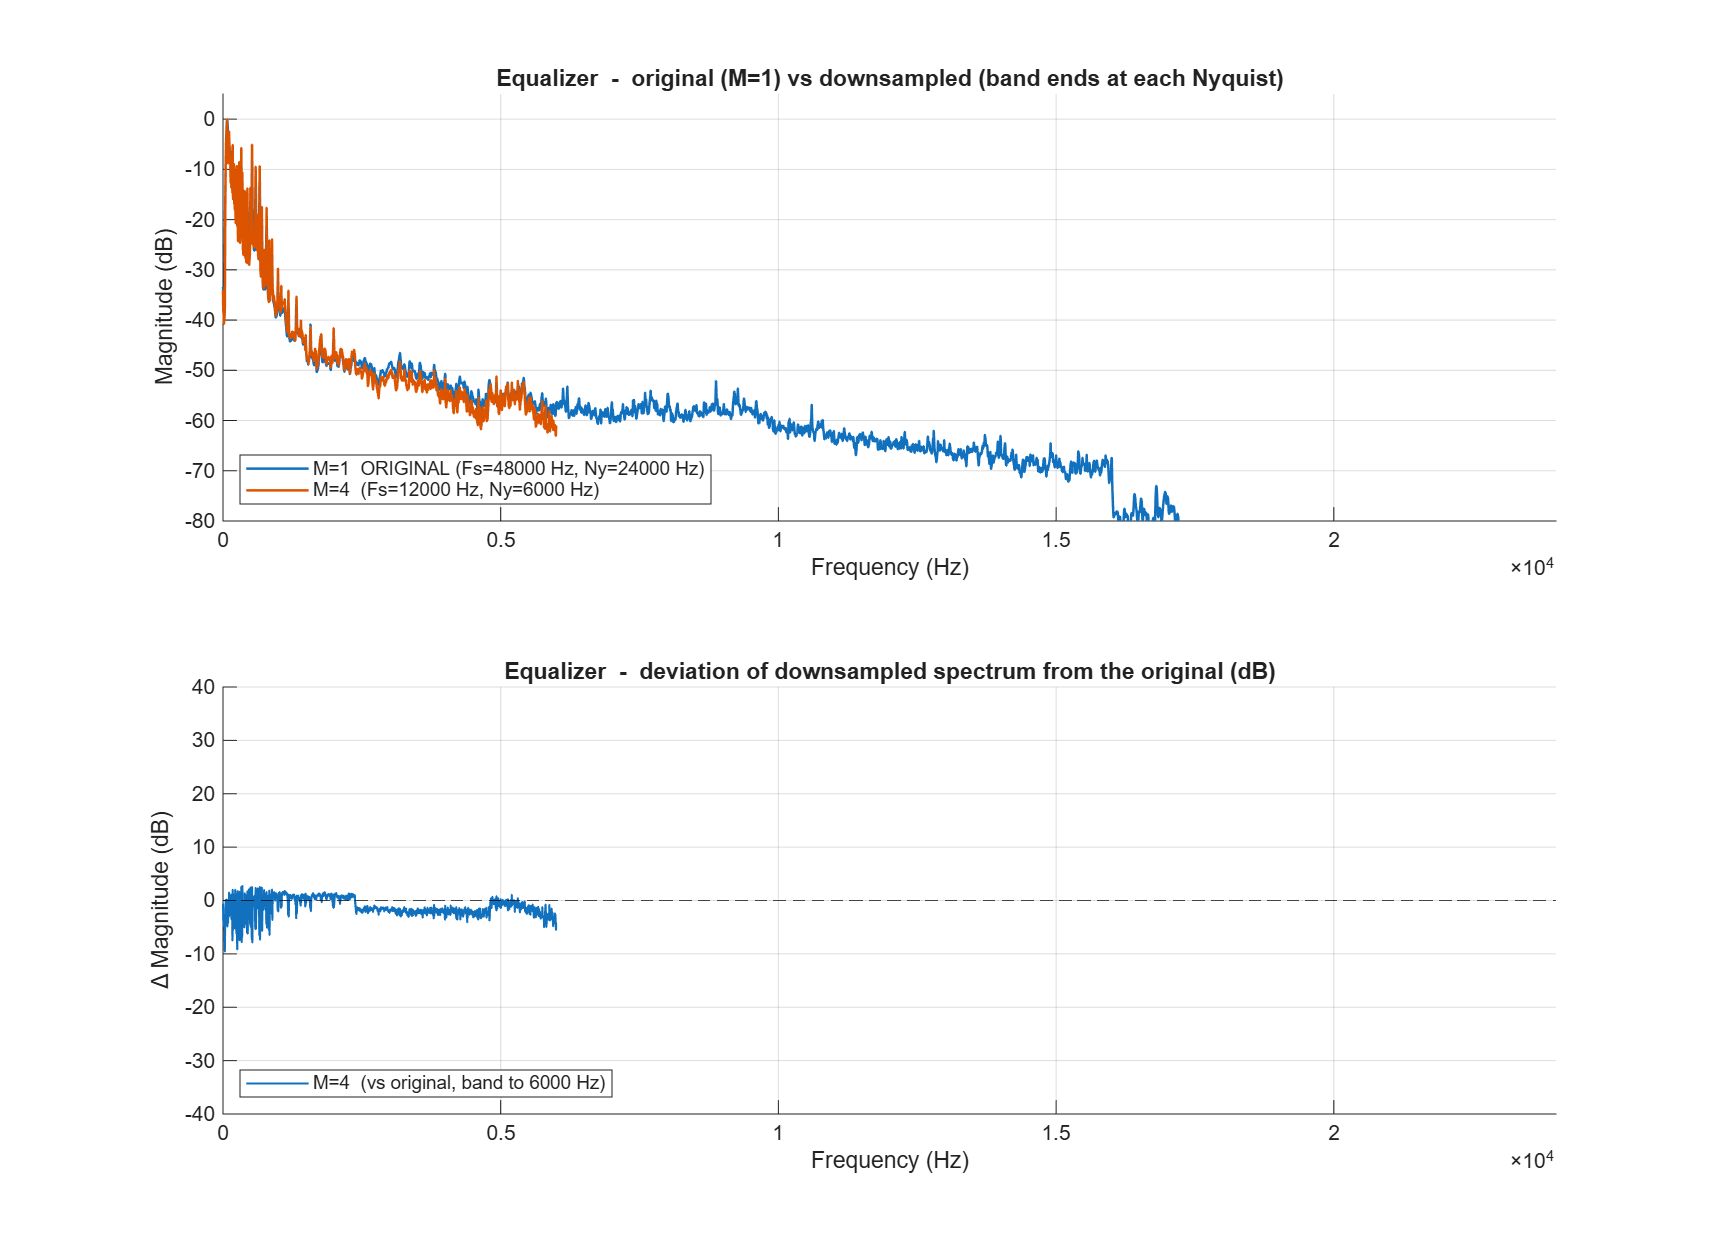
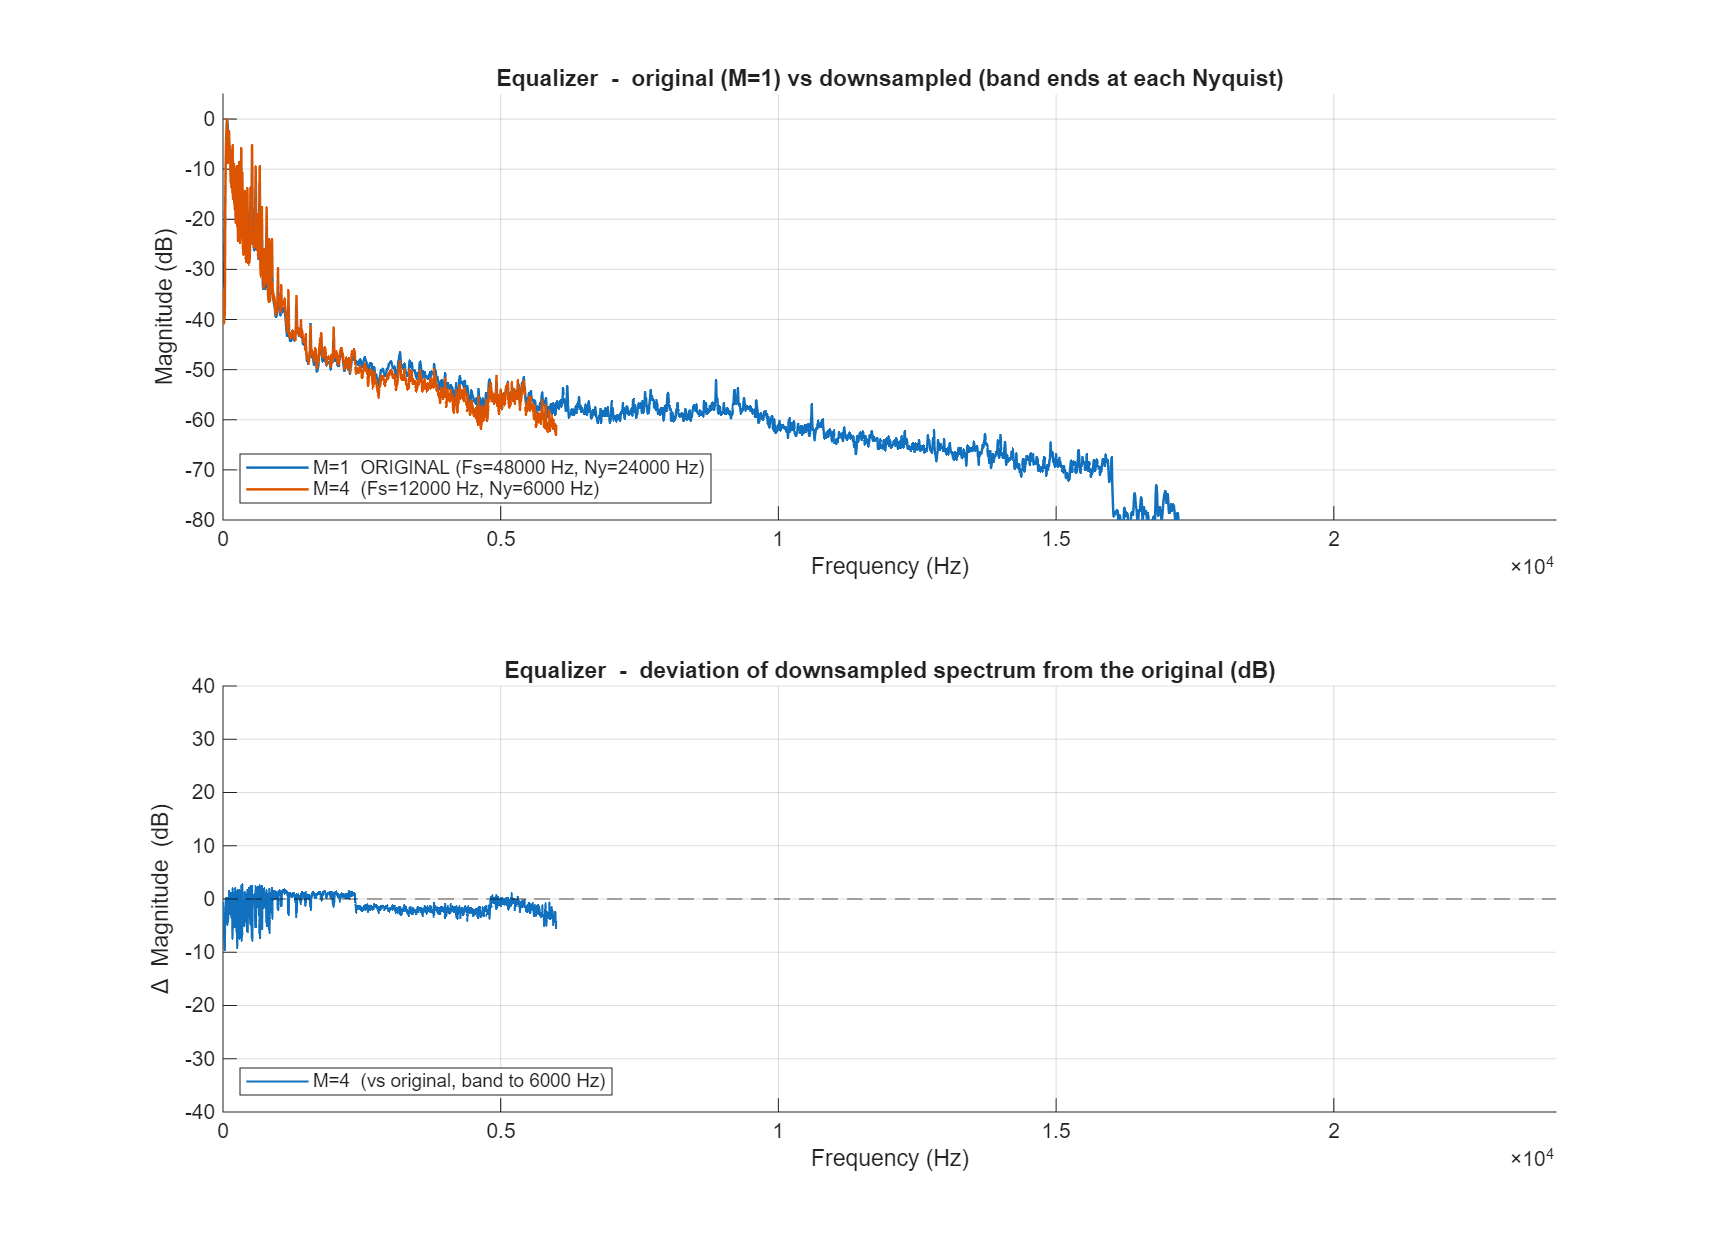
parameter (for hop size, dft size, frequency revolution) sensitivity is done

diff --git a/parameter_sentitivity.m b/parameter_sentitivity.m
@@ -1,73 +1,154 @@
-% FFT Audio Modifier
-% Parameters: observation window, DFT size, frequency resolution
-% Usage: place a .wav file in the same folder, set filename below
-
+% DFT Size Comparison — bar spectra at 10 Hz resolution
 clear; clc; close all;
 
-%% --- USER PARAMETERS ---
-filename        = 'inputfiles/music-sample.wav';   % your wav file
-window_start    = 0.0;           % start time (seconds)
-window_end      = 2.0;           % end time (seconds)  <- observation window
-N_dft           = 4096;          % DFT size (power of 2, e.g. 512 1024 2048 4096)
-freq_resolution = 200;           % keep frequencies BELOW this Hz (lowpass cutoff)
-                                 % acts as a simple filter to show effect of resolution
+%% --- PARAMETERS ---
+filename   = 'inputfiles/music-sample.wav';
+window_end = 2.0;    % seconds to analyse
+max_freq   = 4000;   % Hz to display on x-axis
+bin_width  = 10;     % Hz per bar
+hop        = 256;    % hop size (fixed across all DFT sizes)
 
-%% --- LOAD AUDIO ---
+%% --- LOAD & CROP ---
 [x, fs] = audioread(filename);
-x = mean(x, 2);                  % convert stereo to mono if needed
+x = mean(x, 2);
+x = x(1 : min(end, round(window_end * fs)));
 
-%% --- APPLY OBSERVATION WINDOW ---
-i_start = max(1, round(window_start * fs));
-i_end   = min(length(x), round(window_end * fs));
-x_win   = x(i_start:i_end);
-N_win   = length(x_win);
+%% --- STFT RECONSTRUCT FOR EACH DFT SIZE ---
+function x_out = stft_reconstruct(x, N, hop)
+    num_frames = floor((length(x) - N) / hop) + 1;
+    x_out      = zeros(length(x), 1);
+    win        = hann(N);
+    for f = 1:num_frames
+        i1    = (f-1)*hop + 1;
+        i2    = i1 + N - 1;
+        frame = x(i1:i2) .* win;
+        X     = fft(frame, N);
+        rec   = real(ifft(X, N)) .* win;   % overlap-add
+        x_out(i1:i2) = x_out(i1:i2) + rec;
+    end
+    x_out = x_out / max(abs(x_out) + 1e-10);
+end
 
-fprintf('Sample rate     : %d Hz\n', fs);
-fprintf('Window length   : %.3f s  (%d samples)\n', N_win/fs, N_win);
-fprintf('DFT size (N)    : %d\n', N_dft);
-fprintf('Freq resolution : %.2f Hz  (lowpass cutoff)\n', freq_resolution);
+%% --- COMPUTE AVERAGE MAGNITUDE PER 10 Hz BIN ---
+function mag_bins = compute_bins(x, fs, N, bin_width, max_freq)
+    X        = abs(fft(x, N));
+    X        = X(1:floor(N/2));
+    freqs    = (0:floor(N/2)-1) * fs/N;
+    edges    = 0 : bin_width : max_freq;
+    mag_bins = zeros(1, length(edges)-1);
+    for i = 1:length(edges)-1
+        idx = freqs >= edges(i) & freqs < edges(i+1);
+        if any(idx), mag_bins(i) = mean(X(idx)); end
+    end
+end
 
-%% --- INPUT SPECTRUM ---
-% zero-pad signal to N_dft if N_dft > N_win, else truncate
-x_pad = zeros(N_dft, 1);
-n_copy = min(N_win, N_dft);
-x_pad(1:n_copy) = x_win(1:n_copy);
+%% --- PROCESS & SAVE ---
+sizes = {4096, 2048, 1024, 512};
+recons = cell(1,4);
+for k = 1:4
+    N          = sizes{k};
+    recons{k}  = stft_reconstruct(x, N, hop);
+    audiowrite(sprintf('outputs/output_N%d.wav', N), recons{k}, fs);
+end
 
-X = fft(x_pad, N_dft);           % DFT
-freqs = (0:N_dft-1) * fs / N_dft; % frequency axis (Hz)
+%% --- COMPUTE BINS ---
+centers = (bin_width/2 : bin_width : max_freq - bin_width/2);
+shift   = 5;
+bins = cell(1,4);
+for k = 1:4
+    bins{k} = compute_bins(recons{k}, fs, sizes{k}, bin_width, max_freq);
+end
 
-%% --- PLOT INPUT SPECTRUM ---
-figure;
-subplot(2,1,1);
-half = 1:floor(N_dft/2);         % one-sided
-plot(freqs(half), 20*log10(abs(X(half)) + 1e-10), 'b');
-xlabel('Frequency (Hz)'); ylabel('Magnitude (dB)');
-title(sprintf('Input spectrum  |  window: %.1f–%.1f s  |  N=%d', ...
-    window_start, window_end, N_dft));
-grid on;
+%% --- PLOT ---
+labels = {'4096','2048','1024','512'};
+colors = [0.2 0.5 0.9;
+          0.9 0.4 0.2;
+          0.2 0.8 0.4;
+          0.8 0.2 0.6];
 
-%% --- APPLY FREQUENCY RESOLUTION FILTER ---
-% zero out all bins above freq_resolution (simple brickwall lowpass)
-cutoff_bin = round(freq_resolution / (fs / N_dft));
-cutoff_bin = max(1, min(cutoff_bin, floor(N_dft/2)));
+figure('Position', [100 100 1100 750]);
+for p = 1:3
+    subplot(3,1,p);
+    bar(centers,       bins{p},   0.8, 'FaceColor', colors(p,:),   'FaceAlpha', 0.5, 'EdgeColor', 'none'); hold on;
+    bar(centers+shift, bins{p+1}, 0.8, 'FaceColor', colors(p+1,:), 'FaceAlpha', 0.5, 'EdgeColor', 'none');
+    xlabel('Frequency (Hz)'); ylabel('Magnitude');
+    title(sprintf('N = %s  vs  N = %s', labels{p}, labels{p+1}));
+    legend(sprintf('N=%s', labels{p}), sprintf('N=%s (+%dHz)', labels{p+1}, shift), 'Location','northeast');
+    xlim([0 max_freq]); grid on;
+end
+sgtitle('DFT Size Comparison — STFT reconstruct, avg magnitude per 10 Hz bin');
 
-X_filt = X;
-X_filt(cutoff_bin+1 : N_dft-cutoff_bin+1) = 0;   % zero high-freq bins
+%% --- FIGURE 2: HOP SIZE COMPARISON (fixed N=16384) ---
+N_fixed    = 16384;
+hops       = {256, 512, 1024, 2048};
+hop_labels = {'256','512','1024','2048'};
+hop_colors = [0.3 0.7 0.9;
+              0.9 0.6 0.1;
+              0.4 0.85 0.5;
+              0.75 0.3 0.75];
 
-%% --- RECONSTRUCT AUDIO ---
-x_out = real(ifft(X_filt, N_dft));  % inverse FFT
-x_out = x_out(1:N_win);             % trim back to original window length
-x_out = x_out / max(abs(x_out) + 1e-10);  % normalise to [-1, 1]
+hop_recons = cell(1,4);
+hop_bins   = cell(1,4);
+for k = 1:4
+    hop_recons{k} = stft_reconstruct(x, N_fixed, hops{k});
+    audiowrite(sprintf('outputs/output_hop%d.wav', hops{k}), hop_recons{k}, fs);
+    hop_bins{k}   = compute_bins(hop_recons{k}, fs, N_fixed, bin_width, max_freq);
+end
 
-%% --- PLOT OUTPUT SPECTRUM ---
-X_out = fft(x_out, N_dft);
-subplot(2,1,2);
-plot(freqs(half), 20*log10(abs(X_out(half)) + 1e-10), 'r');
-xlabel('Frequency (Hz)'); ylabel('Magnitude (dB)');
-title(sprintf('Output spectrum  |  lowpass cutoff: %d Hz', freq_resolution));
-grid on;
+figure('Position', [200 100 1100 750]);
+for p = 1:3
+    subplot(3,1,p);
+    bar(centers,       hop_bins{p},   0.8, 'FaceColor', hop_colors(p,:),   'FaceAlpha', 0.5, 'EdgeColor', 'none'); hold on;
+    bar(centers+shift, hop_bins{p+1}, 0.8, 'FaceColor', hop_colors(p+1,:), 'FaceAlpha', 0.5, 'EdgeColor', 'none');
+    xlabel('Frequency (Hz)'); ylabel('Magnitude');
+    title(sprintf('hop = %s  vs  hop = %s', hop_labels{p}, hop_labels{p+1}));
+    legend(sprintf('hop=%s', hop_labels{p}), sprintf('hop=%s (+%dHz)', hop_labels{p+1}, shift), 'Location','northeast');
+    xlim([0 max_freq]); grid on;
+end
+sgtitle('Hop Size Comparison — N=16384 fixed, avg magnitude per 10 Hz bin');
 
-%% --- SAVE OUTPUT ---
-output_file = 'output.wav';
-audiowrite(output_file, x_out, fs);
-fprintf('Output saved to : %s\n', output_file);
+%% --- FIGURE 3: OBSERVATION WINDOW LENGTH COMPARISON ---
+fs_fig3    = 22500;
+win_lens   = {0.1, 1.0, 5.0, 20.0};
+win_labels = {'0.1s','1.0s','5.0s','20.0s'};
+win_colors = [0.2 0.6 0.9;
+              0.9 0.3 0.3;
+              0.3 0.8 0.4;
+              0.85 0.6 0.1];
+
+% resample audio to fs_fig3 and loop to fill if needed
+x_rs = resample(x, fs_fig3, fs);
+n_needed = round(20.0 * fs_fig3);
+while length(x_rs) < n_needed
+    x_rs = [x_rs; x_rs];
+end
+x_rs = x_rs(1:n_needed);
+
+win_bins = cell(1,4);
+for k = 1:4
+    % crop to exact window length — this IS the full observation window
+    N_w    = round(win_lens{k} * fs_fig3);
+    x_crop = x_rs(1:N_w);
+    df     = fs_fig3 / N_w;
+    fprintf('Window=%.1fs  N_w=%d  Δf=%.4f Hz\n', win_lens{k}, N_w, df);
+    audiowrite(sprintf('outputs/output_win%s.wav', win_labels{k}), x_crop, fs_fig3);
+    win_bins{k} = compute_bins(x_crop, fs_fig3, N_w, bin_width, max_freq);
+end
+
+figure('Position', [300 100 1100 750]);
+for p = 1:3
+    subplot(3,1,p);
+    N_lo  = round(win_lens{p}   * fs_fig3);
+    N_hi  = round(win_lens{p+1} * fs_fig3);
+    df_lo = fs_fig3 / N_lo;
+    df_hi = fs_fig3 / N_hi;
+
+    bar(centers,       win_bins{p},   0.8, 'FaceColor', win_colors(p,:),   'FaceAlpha', 0.5, 'EdgeColor', 'none'); hold on;
+    bar(centers+shift, win_bins{p+1}, 0.8, 'FaceColor', win_colors(p+1,:), 'FaceAlpha', 0.5, 'EdgeColor', 'none');
+    xlabel('Frequency (Hz)'); ylabel('Magnitude');
+    title(sprintf('win=%s (Δf=%.3fHz)  vs  win=%s (Δf=%.3fHz)', ...
+        win_labels{p}, df_lo, win_labels{p+1}, df_hi));
+    legend(win_labels{p}, sprintf('%s (+%dHz)', win_labels{p+1}, shift), 'Location','northeast');
+    xlim([0 max_freq]); grid on;
+end
+sgtitle('Observation Window Comparison — fs=22500Hz, full window, avg magnitude per 10 Hz bin');

diff --git a/pitchShift.m b/pitchShift.m
@@ -1,43 +1,0 @@
-function y = pitchShift(x, fs, semitones, windowLength, overlap)
-    if nargin < 5
-        overlap = round(0.75 * windowLength);
-    end
-    hop = windowLength - overlap;
-
-    % Pitch shift ratio
-    alpha = 2^(semitones/12); 
-
-    % STFT 
-    win = hamming(windowLength, 'periodic');
-    [S, F, ~] = stft(x, fs, 'Window', win, 'OverlapLength', overlap, ...
-                     'FFTLength', windowLength, 'Centered', false);
-
-    % Phase shift
-    numFrames = size(S, 2);
-    phi = zeros(size(S));
-    phi(:,1) = angle(S(:,1));
-
-    for n = 2:numFrames
-        delta_phi_ana = 2*pi * F * hop / fs;
-        delta_phi = angle(S(:,n)) - angle(S(:,n-1)) - delta_phi_ana;
-        delta_phi = delta_phi - 2*pi * round(delta_phi/(2*pi)); 
-        delta_phi_syn = delta_phi * alpha + 2*pi * F * hop * (alpha - 1) / fs;
-        phi(:,n) = phi(:,n-1) + delta_phi_syn;
-    end
-
-    Y = abs(S) .* exp(1i * phi);
-
-    % ISTFT Synthesis
-    y = istft(Y, fs, 'Window', win, 'OverlapLength', overlap, ...
-              'FFTLength', windowLength, 'Centered', false);
-
-    %  Safe length trimming
-    originalLength = length(x);
-    if length(y) > originalLength
-        y = y(1:originalLength);
-    elseif length(y) < originalLength
-        y = [y; zeros(originalLength - length(y), 1)];
-    end
-
-    y = real(y);  % Ensure real signal
-end

diff --git a/chorus.m b/chorus.m
@@ -50,7 +50,6 @@ x = x / max(abs(x) + eps);
 
 y = zeros(size(x));
 
-
 delayTable = table((1:numVoices)', pitchShifts(:), delays(:), ...
     round(delays(:) * fs), delayBins(:), counts(idx), ...
     'VariableNames', {'Voice', 'PitchShift_semitones', ...
@@ -248,3 +247,4 @@ end
 
     y = real(y);  % Ensure real signal
 end
+